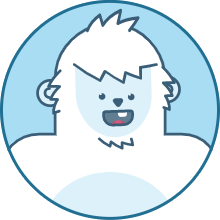
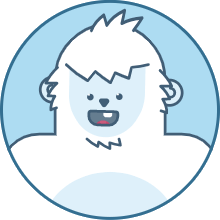
.

Changed region(s): [[0.1636, 0.2727, 0.8455, 0.6818], [0.3818, 0.0273, 0.6545, 0.1636]]

diff --git a/frontend/zion/default.js b/frontend/zion/default.js
@@ -45,9 +45,10 @@ function yetiLogin(imageId,userId,passwordId,showPassButton){
 		let length = $(this).val().length;
 		if(length <= 0){
 			imageIdObj.attr("src",uri+"0.png");
+			return;
 		}
-		if(length > 9){
-			length = 9;
+		if(length > 25){
+			length = 25;
 		}
 		imageIdObj.attr("src",uri+length+".png");
 	});
@@ -55,7 +56,7 @@ function yetiLogin(imageId,userId,passwordId,showPassButton){
 	passwordIdObj.on("focus change",function(){
 		let self = $(this);
 		if(self.attr("type") == "password"){
-			imageIdObj.attr("src",uri+"hidden.png");
+			imageIdObj.attr("src",uri+"hidden1.png");
 		}else{
 			imageIdObj.attr("src",uri+"hidden2.png");
 		}
